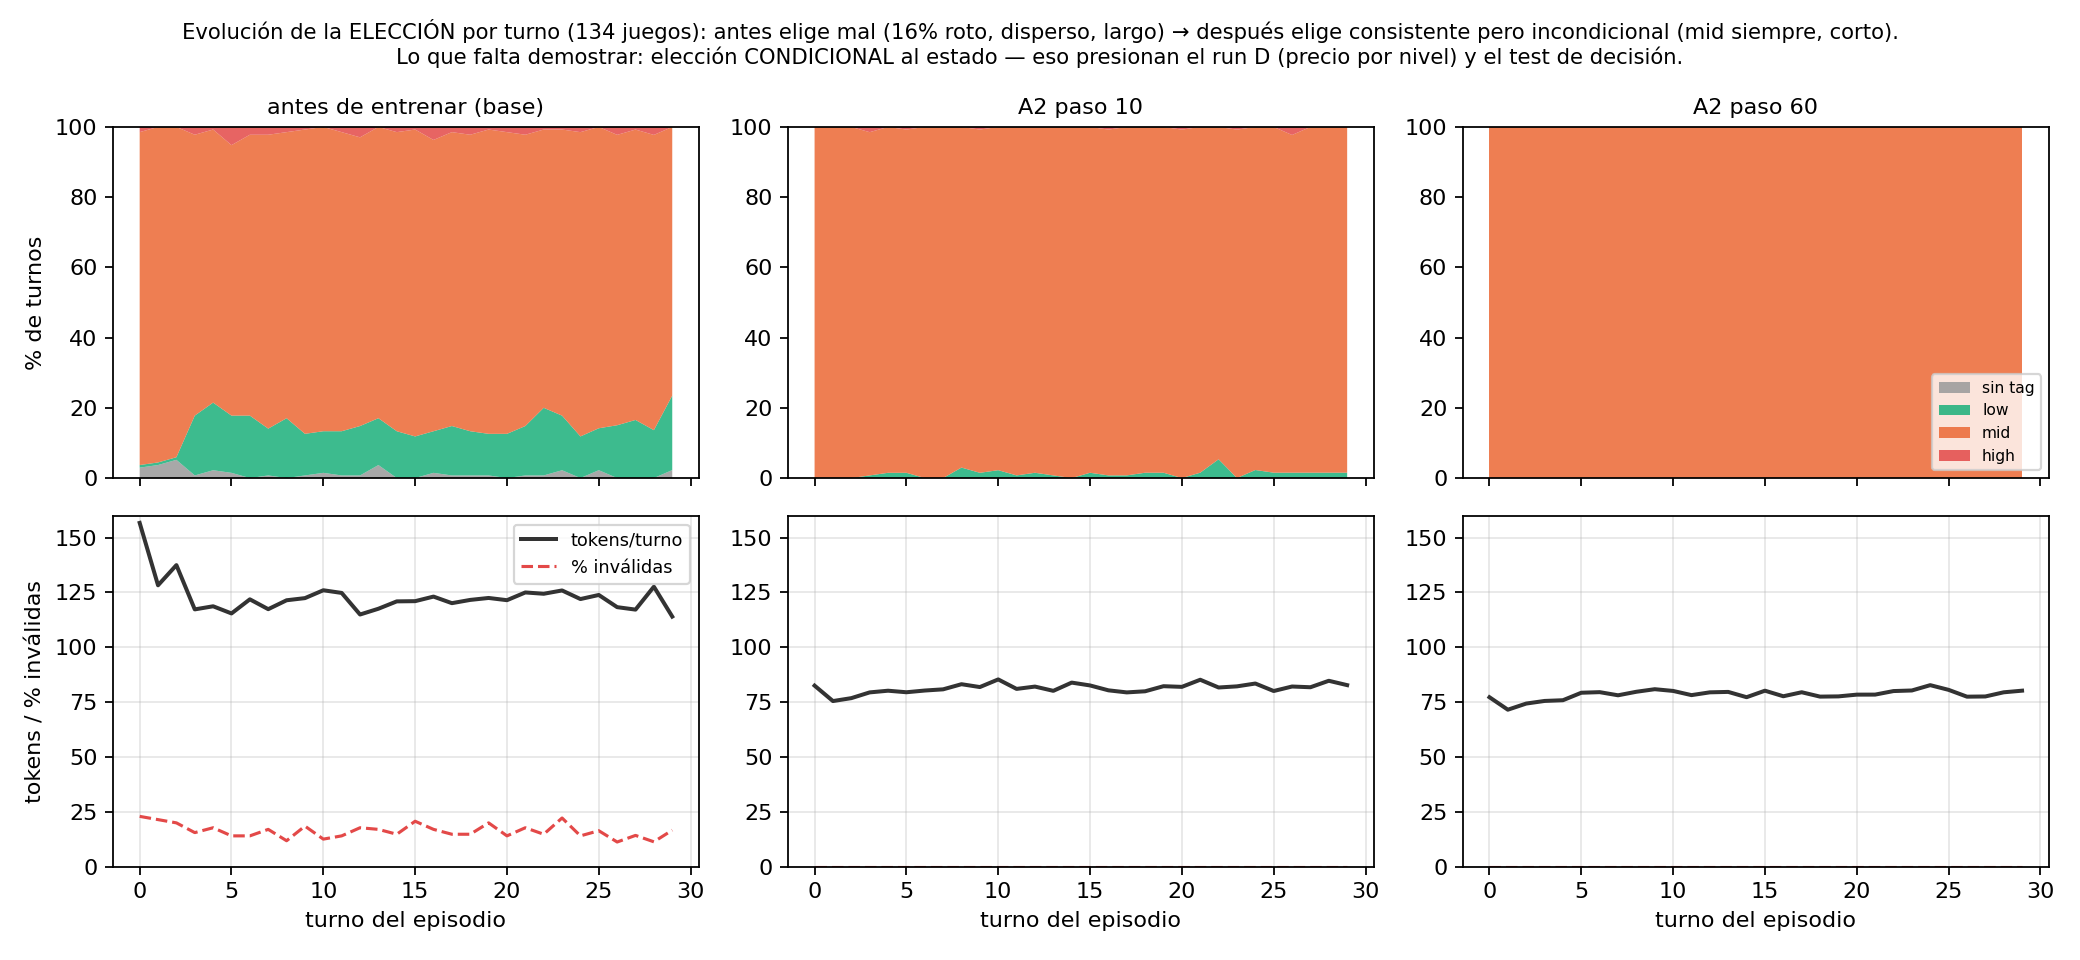
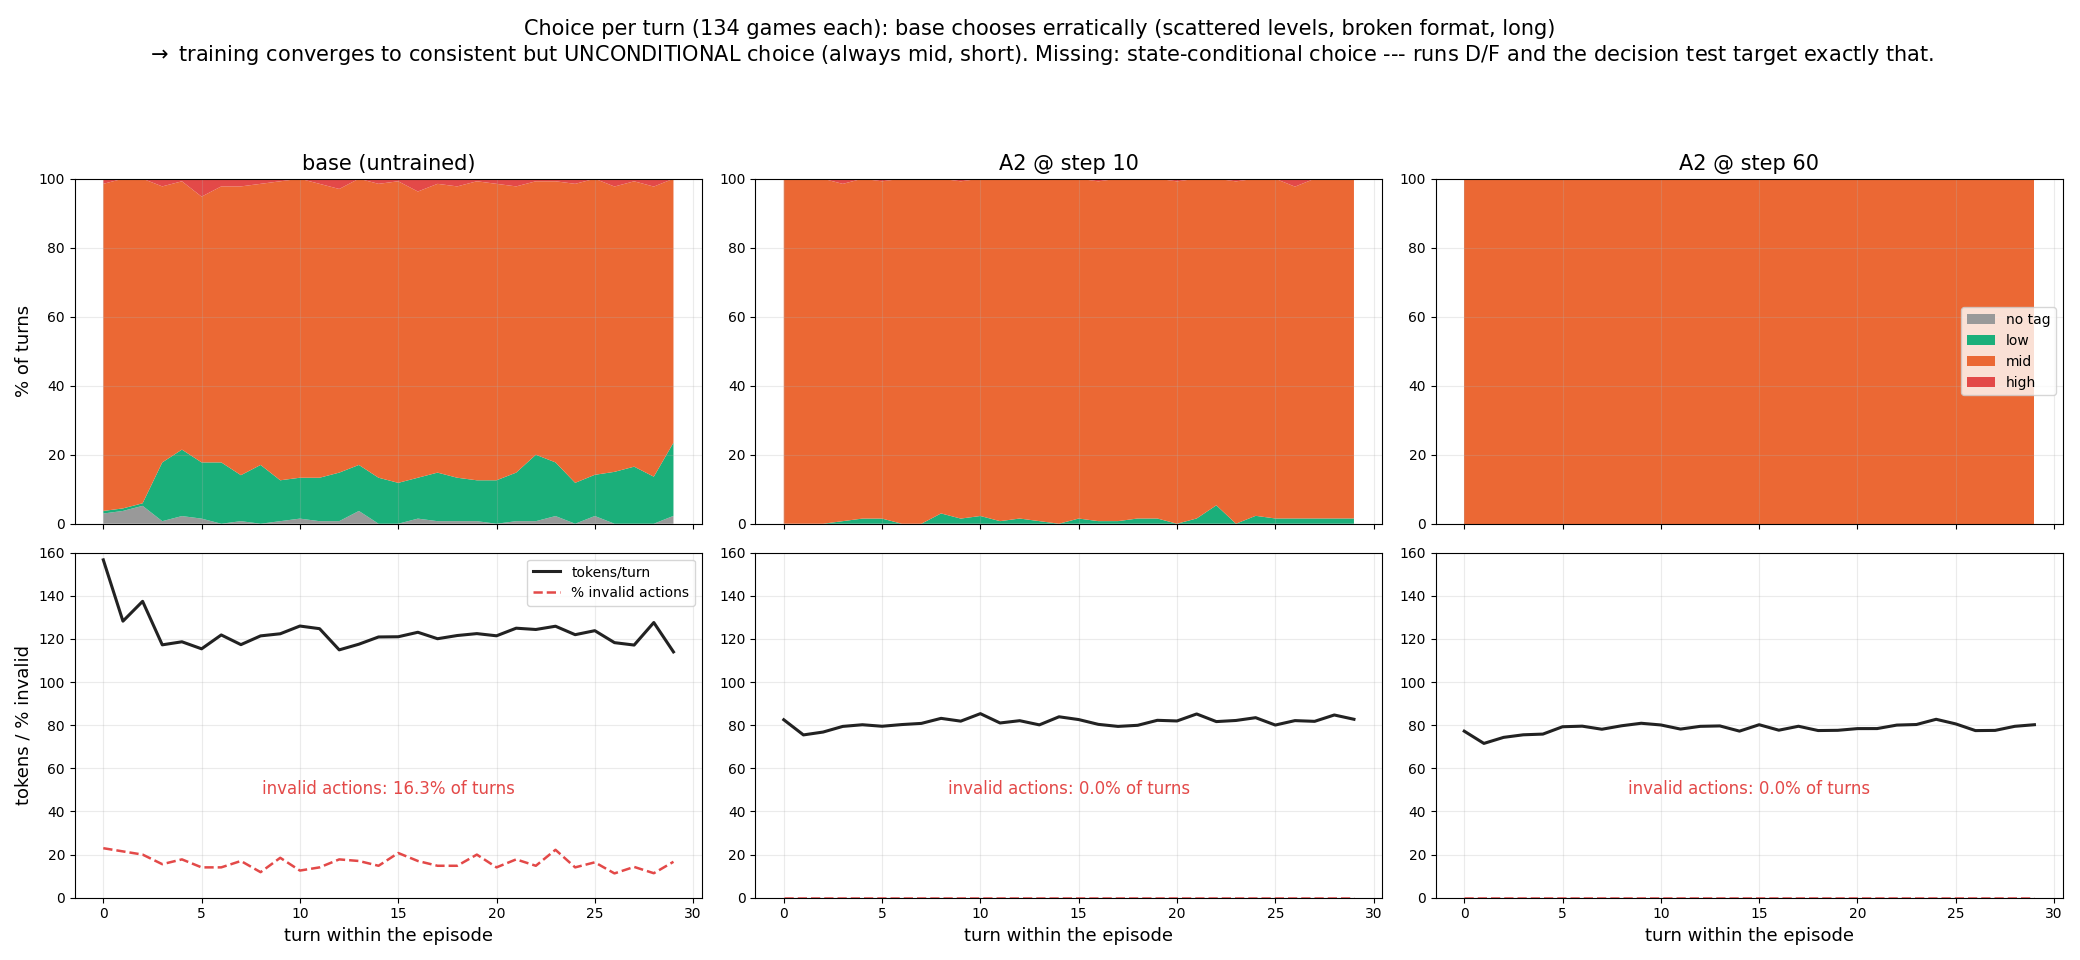
Figures in English; % invalid drawn+annotated on all choice_evolution panels; f3_pareto rebuilt with full A2/B2 series; make_figs.py versioned

diff --git a/scripts/make_figs.py b/scripts/make_figs.py
@@ -1,0 +1,144 @@
+#!/usr/bin/env python3
+"""Regenerate choice_evolution.png and f3_pareto.png for the Sep-10 deck.
+
+Data source: the eval outputs pulled from the Nautilus PVC (energy-ckpt-pvc,
+/ckpt/eval/<config>/{turns.csv,aggregate.json}). Pass the local copy of that
+eval/ directory as argv[1] (default: the session scratchpad pull).
+
+Energy convention: aggregate's mean_j_per_episode_ref (measured, board-calibrated
+to 4.0 J/token) when present and > 0; otherwise tokens/episode x 4.0 J/token
+(the hardware-free currency) -- the two agree by construction of the calibration.
+"""
+import csv, json, sys
+from collections import defaultdict
+from pathlib import Path
+
+import matplotlib
+matplotlib.use("Agg")
+import matplotlib.pyplot as plt
+
+EVAL = Path(sys.argv[1] if len(sys.argv) > 1 else
+            "/private/tmp/claude-501/-Users-lzanda-Library-CloudStorage-OneDrive-UCSanDiego-"
+            "Docs-UCSD-RL-Energy-clean/685aa2be-993d-4f96-85e0-375cc01b520b/scratchpad/evalpull/eval")
+FIGS = Path(__file__).resolve().parent.parent / "figures"
+REF_JPT = 4.0
+MAXT = 30
+
+LEVELS = ["none", "low", "mid", "high"]
+LCOLOR = {"none": "#999999", "low": "#1baf7a", "mid": "#eb6834", "high": "#e34948"}
+LLABEL = {"none": "no tag", "low": "low", "mid": "mid", "high": "high"}
+
+
+def turns(tag):
+    with open(EVAL / tag / "turns.csv") as f:
+        return list(csv.DictReader(f))
+
+
+def agg(tag):
+    return json.load(open(EVAL / tag / "aggregate.json"))
+
+
+# ---------------------------------------------------------------- choice evolution
+def choice_evolution():
+    panels = [("base", "base (untrained)"), ("A2_step10", "A2 @ step 10"), ("A2_step60", "A2 @ step 60")]
+    fig, axes = plt.subplots(2, 3, figsize=(20.8, 9.6), sharex=True)
+    for col, (tag, title) in enumerate(panels):
+        rows = turns(tag)
+        share = {lv: [] for lv in LEVELS}
+        toks, inval = [], []
+        for t in range(MAXT):
+            rt = [r for r in rows if int(r["turn"]) == t]
+            n = max(1, len(rt))
+            for lv in LEVELS:
+                share[lv].append(100 * sum(1 for r in rt if (r["effort"] or "none") == lv) / n)
+            toks.append(sum(float(r["gen_tok"]) for r in rt) / n)
+            inval.append(100 * sum(1 for r in rt if r["valid"] == "0") / n)
+        ax = axes[0][col]
+        ax.stackplot(range(MAXT), [share[lv] for lv in LEVELS],
+                     colors=[LCOLOR[lv] for lv in LEVELS],
+                     labels=[LLABEL[lv] for lv in LEVELS])
+        ax.set_title(title, fontsize=15)
+        ax.set_ylim(0, 100)
+        if col == 0:
+            ax.set_ylabel("% of turns", fontsize=13)
+        if col == 2:
+            ax.legend(loc="center right", fontsize=10)
+        ax2 = axes[1][col]
+        ax2.plot(range(MAXT), toks, color="#222222", lw=2.2, label="tokens/turn")
+        ax2.plot(range(MAXT), inval, color="#e34948", lw=1.8, ls="--", label="% invalid actions")
+        ax2.set_ylim(0, 160)
+        mean_inv = sum(inval) / len(inval)
+        ax2.annotate(f"invalid actions: {mean_inv:.1f}% of turns",
+                     xy=(0.5, 0.30), xycoords="axes fraction", ha="center",
+                     fontsize=12, color="#e34948")
+        ax2.set_xlabel("turn within the episode", fontsize=13)
+        if col == 0:
+            ax2.set_ylabel("tokens / % invalid", fontsize=13)
+            ax2.legend(fontsize=10)
+        for a in (ax, ax2):
+            a.grid(alpha=0.25)
+    fig.suptitle(
+        "Choice per turn (134 games each): base chooses erratically (scattered levels, broken format, long)\n"
+        "$\\rightarrow$ training converges to consistent but UNCONDITIONAL choice (always mid, short). "
+        "Missing: state-conditional choice --- runs D/F and the decision test target exactly that.",
+        fontsize=15)
+    fig.tight_layout(rect=(0, 0, 1, 0.92))
+    fig.savefig(FIGS / "choice_evolution.png", dpi=100)
+    print("wrote choice_evolution.png")
+
+
+# ---------------------------------------------------------------- pareto
+def point(tag):
+    a = agg(tag)
+    succ = 100 * a["success_rate"]
+    n = a.get("n_episodes") or 134
+    se = (succ * (100 - succ) / n) ** 0.5
+    kj = a.get("mean_j_per_episode_ref", 0) / 1000
+    if kj <= 0:
+        rows = turns(tag)
+        per_ep = defaultdict(float)
+        for r in rows:
+            per_ep[r["task"]] += float(r["gen_tok"])
+        kj = REF_JPT * sum(per_ep.values()) / len(per_ep) / 1000
+    return kj, succ, se
+
+
+def pareto():
+    fig, ax = plt.subplots(figsize=(13, 8))
+    series = [
+        ("A2", "#e34948", "s", [f"A2_step{s}" for s in (10, 20, 30, 40, 50, 60)]),
+        ("B2 ($\\lambda$=0)", "#2a78d6", "o", [f"B2_step{s}" for s in (10, 20, 30, 40, 50, 60)]),
+    ]
+    for name, color, marker, tags in series:
+        xs, ys = [], []
+        for tag in tags:
+            kj, succ, se = point(tag)
+            xs.append(kj); ys.append(succ)
+            ax.errorbar(kj, succ, yerr=se, color=color, marker=marker, ms=9,
+                        capsize=3, lw=0, elinewidth=1.2)
+            ax.annotate(tag.split("step")[1], (kj, succ), textcoords="offset points",
+                        xytext=(7, 4), fontsize=10, color=color)
+        ax.plot(xs, ys, color=color, alpha=0.35, lw=1.4, label=f"{name} steps 10$\\to$60")
+    for tag, label in [("base", "base free"), ("base_low", "b·low"),
+                       ("base_mid", "b·mid"), ("base_high", "b·high")]:
+        kj, succ, se = point(tag)
+        ax.errorbar(kj, succ, yerr=se, color="#555555", marker="o", mfc="none", ms=10,
+                    capsize=3, lw=0, elinewidth=1.2)
+        ax.annotate(label, (kj, succ), textcoords="offset points", xytext=(7, 5),
+                    fontsize=10, color="#555555")
+    ax.set_xlabel("kJ per episode at 4.0 J/token (board-calibrated)", fontsize=13)
+    ax.set_ylabel("success %, 134 OOD games ($\\pm$1 s.e.)", fontsize=13)
+    ax.set_title("F3: the full A2 ($\\lambda$=0.5) and B2 ($\\lambda$=0) series vs the untrained base\n"
+                 "the two series interleave within $\\pm$1 s.e. at every step --- "
+                 "the $\\lambda$ term never separates them",
+                 fontsize=14)
+    ax.grid(alpha=0.3)
+    ax.legend(fontsize=11)
+    fig.tight_layout()
+    fig.savefig(FIGS / "f3_pareto.png", dpi=100)
+    print("wrote f3_pareto.png")
+
+
+if __name__ == "__main__":
+    choice_evolution()
+    pareto()
